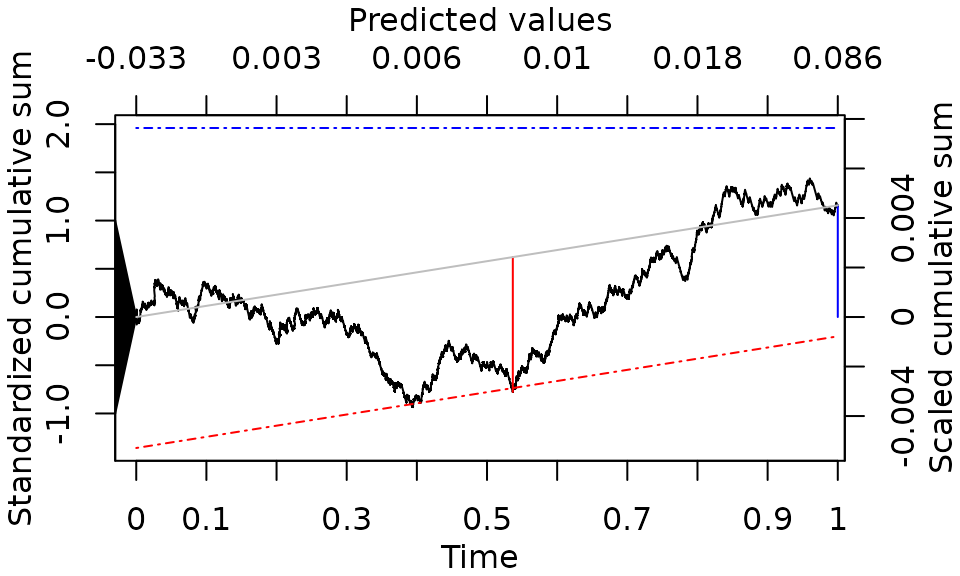
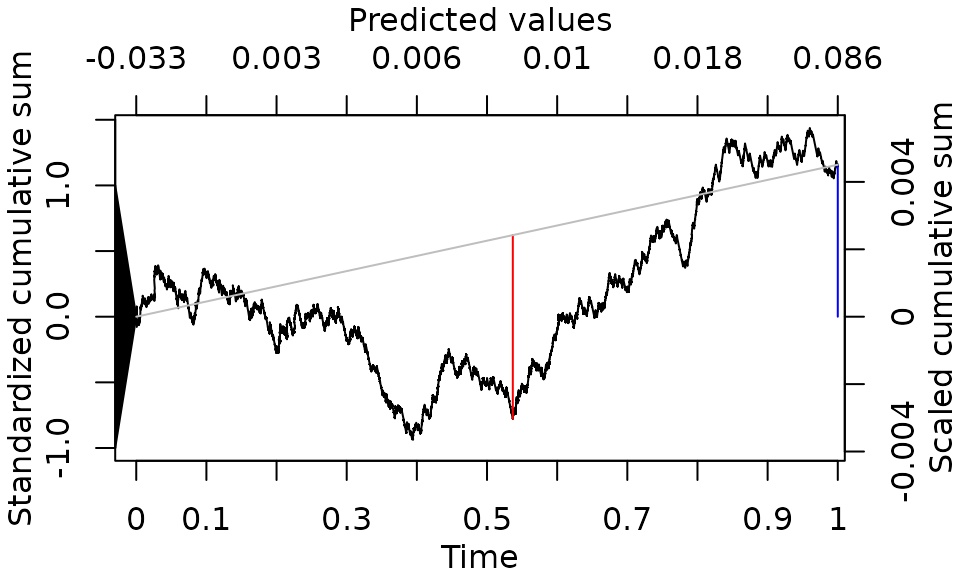
Deploying to gh-pages from @ resplab/cumulcalib@2c1577819662529b9df219714f73796c98511719 🚀

diff --git a/reference/cumulcalib-package.html b/reference/cumulcalib-package.html
@@ -1,6 +1,7 @@
 <!DOCTYPE html>
-<!-- Generated by pkgdown: do not edit by hand --><html lang="en-US"><head><meta http-equiv="Content-Type" content="text/html; charset=UTF-8"><meta charset="utf-8"><meta http-equiv="X-UA-Compatible" content="IE=edge"><meta name="viewport" content="width=device-width, initial-scale=1.0"><title>cumulcalib: Cumulative Calibration Assessment for Prediction Models — cumulcalib-package • cumulcalib</title><!-- jquery --><script src="https://cdnjs.cloudflare.com/ajax/libs/jquery/3.7.1/jquery.min.js" integrity="sha512-v2CJ7UaYy4JwqLDIrZUI/4hqeoQieOmAZNXBeQyjo21dadnwR+8ZaIJVT8EE2iyI61OV8e6M8PP2/4hpQINQ/g==" crossorigin="anonymous" referrerpolicy="no-referrer"></script><!-- Bootstrap --><link rel="stylesheet" href="https://cdnjs.cloudflare.com/ajax/libs/twitter-bootstrap/3.4.1/css/bootstrap.min.css" integrity="sha256-bZLfwXAP04zRMK2BjiO8iu9pf4FbLqX6zitd+tIvLhE=" crossorigin="anonymous"><script src="https://cdnjs.cloudflare.com/ajax/libs/twitter-bootstrap/3.4.1/js/bootstrap.min.js" integrity="sha256-nuL8/2cJ5NDSSwnKD8VqreErSWHtnEP9E7AySL+1ev4=" crossorigin="anonymous"></script><!-- bootstrap-toc --><link rel="stylesheet" href="../bootstrap-toc.css"><script src="../bootstrap-toc.js"></script><!-- Font Awesome icons --><link rel="stylesheet" href="https://cdnjs.cloudflare.com/ajax/libs/font-awesome/5.12.1/css/all.min.css" integrity="sha256-mmgLkCYLUQbXn0B1SRqzHar6dCnv9oZFPEC1g1cwlkk=" crossorigin="anonymous"><link rel="stylesheet" href="https://cdnjs.cloudflare.com/ajax/libs/font-awesome/5.12.1/css/v4-shims.min.css" integrity="sha256-wZjR52fzng1pJHwx4aV2AO3yyTOXrcDW7jBpJtTwVxw=" crossorigin="anonymous"><!-- clipboard.js --><script src="https://cdnjs.cloudflare.com/ajax/libs/clipboard.js/2.0.6/clipboard.min.js" integrity="sha256-inc5kl9MA1hkeYUt+EC3BhlIgyp/2jDIyBLS6k3UxPI=" crossorigin="anonymous"></script><!-- headroom.js --><script src="https://cdnjs.cloudflare.com/ajax/libs/headroom/0.11.0/headroom.min.js" integrity="sha256-AsUX4SJE1+yuDu5+mAVzJbuYNPHj/WroHuZ8Ir/CkE0=" crossorigin="anonymous"></script><script src="https://cdnjs.cloudflare.com/ajax/libs/headroom/0.11.0/jQuery.headroom.min.js" integrity="sha256-ZX/yNShbjqsohH1k95liqY9Gd8uOiE1S4vZc+9KQ1K4=" crossorigin="anonymous"></script><!-- pkgdown --><link href="../pkgdown.css" rel="stylesheet"><script src="../pkgdown.js"></script><meta property="og:title" content="cumulcalib: Cumulative Calibration Assessment for Prediction Models — cumulcalib-package"><meta property="og:description" content="Tools for visualization of, and inference on, the calibration of prediction models on the cumulative domain. This provides a method for evaluating calibration of risk prediction models without having to group the data or use tuning parameters (e.g., loess bandwidth). This package implements the methodology described in Sadatsafavi and Patkau (2024) doi:10.1002/sim.10138
-. The core of the package is cumulcalib(), which takes in vectors of binary responses and predicted risks. The plot() and summary() methods are implemented for the results returned by cumulcalib()."><!-- mathjax --><script src="https://cdnjs.cloudflare.com/ajax/libs/mathjax/2.7.5/MathJax.js" integrity="sha256-nvJJv9wWKEm88qvoQl9ekL2J+k/RWIsaSScxxlsrv8k=" crossorigin="anonymous"></script><script src="https://cdnjs.cloudflare.com/ajax/libs/mathjax/2.7.5/config/TeX-AMS-MML_HTMLorMML.js" integrity="sha256-84DKXVJXs0/F8OTMzX4UR909+jtl4G7SPypPavF+GfA=" crossorigin="anonymous"></script><!--[if lt IE 9]>
+<!-- Generated by pkgdown: do not edit by hand --><html lang="en-US"><head><meta http-equiv="Content-Type" content="text/html; charset=UTF-8"><meta charset="utf-8"><meta http-equiv="X-UA-Compatible" content="IE=edge"><meta name="viewport" content="width=device-width, initial-scale=1.0"><title>cumulcalib: Cumulative Calibration Assessment for Prediction Models — cumulcalib-package • cumulcalib</title><!-- jquery --><script src="https://cdnjs.cloudflare.com/ajax/libs/jquery/3.7.1/jquery.min.js" integrity="sha512-v2CJ7UaYy4JwqLDIrZUI/4hqeoQieOmAZNXBeQyjo21dadnwR+8ZaIJVT8EE2iyI61OV8e6M8PP2/4hpQINQ/g==" crossorigin="anonymous" referrerpolicy="no-referrer"></script><!-- Bootstrap --><link rel="stylesheet" href="https://cdnjs.cloudflare.com/ajax/libs/twitter-bootstrap/3.4.1/css/bootstrap.min.css" integrity="sha256-bZLfwXAP04zRMK2BjiO8iu9pf4FbLqX6zitd+tIvLhE=" crossorigin="anonymous"><script src="https://cdnjs.cloudflare.com/ajax/libs/twitter-bootstrap/3.4.1/js/bootstrap.min.js" integrity="sha256-nuL8/2cJ5NDSSwnKD8VqreErSWHtnEP9E7AySL+1ev4=" crossorigin="anonymous"></script><!-- bootstrap-toc --><link rel="stylesheet" href="../bootstrap-toc.css"><script src="../bootstrap-toc.js"></script><!-- Font Awesome icons --><link rel="stylesheet" href="https://cdnjs.cloudflare.com/ajax/libs/font-awesome/5.12.1/css/all.min.css" integrity="sha256-mmgLkCYLUQbXn0B1SRqzHar6dCnv9oZFPEC1g1cwlkk=" crossorigin="anonymous"><link rel="stylesheet" href="https://cdnjs.cloudflare.com/ajax/libs/font-awesome/5.12.1/css/v4-shims.min.css" integrity="sha256-wZjR52fzng1pJHwx4aV2AO3yyTOXrcDW7jBpJtTwVxw=" crossorigin="anonymous"><!-- clipboard.js --><script src="https://cdnjs.cloudflare.com/ajax/libs/clipboard.js/2.0.6/clipboard.min.js" integrity="sha256-inc5kl9MA1hkeYUt+EC3BhlIgyp/2jDIyBLS6k3UxPI=" crossorigin="anonymous"></script><!-- headroom.js --><script src="https://cdnjs.cloudflare.com/ajax/libs/headroom/0.11.0/headroom.min.js" integrity="sha256-AsUX4SJE1+yuDu5+mAVzJbuYNPHj/WroHuZ8Ir/CkE0=" crossorigin="anonymous"></script><script src="https://cdnjs.cloudflare.com/ajax/libs/headroom/0.11.0/jQuery.headroom.min.js" integrity="sha256-ZX/yNShbjqsohH1k95liqY9Gd8uOiE1S4vZc+9KQ1K4=" crossorigin="anonymous"></script><!-- pkgdown --><link href="../pkgdown.css" rel="stylesheet"><script src="../pkgdown.js"></script><meta property="og:title" content="cumulcalib: Cumulative Calibration Assessment for Prediction Models — cumulcalib-package"><meta property="og:description" content="Tools for visualization of, and inference on, the calibration of prediction models on the cumulative domain. This provides a method for evaluating calibration of risk prediction models without having to group the data or use tuning parameters (e.g., loess bandwidth). This package implements the methodology described in Sadatsafavi and Petkau (2024) doi:10.1002/sim.10138
+. The core of the package is cumulcalib(), which takes in vectors of binary responses and predicted risks. The package also implements non-parametric assessment of the calibration of individualized treatment effect (ITE) models using data from a randomized trial, via cumulcalibITE(), as described in Sadatsafavi et al. (2025) doi:10.48550/arXiv.2512.08140
+. The plot() and summary() methods are implemented for the results returned by cumulcalib() and cumulcalibITE()."><!-- mathjax --><script src="https://cdnjs.cloudflare.com/ajax/libs/mathjax/2.7.5/MathJax.js" integrity="sha256-nvJJv9wWKEm88qvoQl9ekL2J+k/RWIsaSScxxlsrv8k=" crossorigin="anonymous"></script><script src="https://cdnjs.cloudflare.com/ajax/libs/mathjax/2.7.5/config/TeX-AMS-MML_HTMLorMML.js" integrity="sha256-84DKXVJXs0/F8OTMzX4UR909+jtl4G7SPypPavF+GfA=" crossorigin="anonymous"></script><!--[if lt IE 9]>
 <script src="https://oss.maxcdn.com/html5shiv/3.7.3/html5shiv.min.js"></script>
 <script src="https://oss.maxcdn.com/respond/1.4.2/respond.min.js"></script>
 <![endif]--></head><body data-spy="scroll" data-target="#toc">
@@ -18,7 +19,7 @@
       </button>
       <span class="navbar-brand">
         <a class="navbar-link" href="../index.html">cumulcalib</a>
-        <span class="version label label-default" data-toggle="tooltip" data-placement="bottom" title="">0.0.1.9002</span>
+        <span class="version label label-default" data-toggle="tooltip" data-placement="bottom" title="">0.1.0</span>
       </span>
     </div>
 
@@ -63,8 +64,9 @@
     </div>
 
     <div class="ref-description">
-    <p>Tools for visualization of, and inference on, the calibration of prediction models on the cumulative domain. This provides a method for evaluating calibration of risk prediction models without having to group the data or use tuning parameters (e.g., loess bandwidth). This package implements the methodology described in Sadatsafavi and Patkau (2024) <a href="https://doi.org/10.1002/sim.10138" class="external-link">doi:10.1002/sim.10138</a>
-. The core of the package is cumulcalib(), which takes in vectors of binary responses and predicted risks. The plot() and summary() methods are implemented for the results returned by cumulcalib().</p>
+    <p>Tools for visualization of, and inference on, the calibration of prediction models on the cumulative domain. This provides a method for evaluating calibration of risk prediction models without having to group the data or use tuning parameters (e.g., loess bandwidth). This package implements the methodology described in Sadatsafavi and Petkau (2024) <a href="https://doi.org/10.1002/sim.10138" class="external-link">doi:10.1002/sim.10138</a>
+. The core of the package is cumulcalib(), which takes in vectors of binary responses and predicted risks. The package also implements non-parametric assessment of the calibration of individualized treatment effect (ITE) models using data from a randomized trial, via cumulcalibITE(), as described in Sadatsafavi et al. (2025) <a href="https://doi.org/10.48550/arXiv.2512.08140" class="external-link">doi:10.48550/arXiv.2512.08140</a>
+. The plot() and summary() methods are implemented for the results returned by cumulcalib() and cumulcalibITE().</p>
     </div>
 
 

diff --git a/articles/tutorial.html b/articles/tutorial.html
@@ -32,7 +32,7 @@
       </button>
       <span class="navbar-brand">
         <a class="navbar-link" href="../index.html">cumulcalib</a>
-        <span class="version label label-default" data-toggle="tooltip" data-placement="bottom" title="">0.0.1.9002</span>
+        <span class="version label label-default" data-toggle="tooltip" data-placement="bottom" title="">0.1.0</span>
       </span>
     </div>
 
@@ -231,14 +231,14 @@ results:</p>
 <div class="sourceCode" id="cb7"><pre class="downlit sourceCode r">
 <code class="sourceCode R"><span><span class="fu"><a href="https://rdrr.io/r/base/summary.html" class="external-link">summary</a></span><span class="op">(</span><span class="va">res</span><span class="op">)</span></span>
 <span><span class="co">#&gt; Moderate calibration assessment of predicted risks</span></span>
-<span><span class="co">#&gt; C_n (mean calibration error): -0.00156276638623392</span></span>
-<span><span class="co">#&gt; C* (maximum cumulative calibration error): 0.00200906446334086  (observed risk &lt; predicted)</span></span>
-<span><span class="co">#&gt;   Location of maximum cumulative error: time = 0.287796643081863, predicted risk = 0.0603447711748229</span></span>
+<span><span class="co">#&gt; C_n (mean calibration error): -0.0015627663862339</span></span>
+<span><span class="co">#&gt; C* (maximum cumulative calibration error): 0.00200906446334084  (observed risk &lt; predicted)</span></span>
+<span><span class="co">#&gt;   Location of maximum cumulative error: time = 0.287796643081862, predicted risk = 0.0603447711748229</span></span>
 <span><span class="co">#&gt; Method: Two-part Brownian bridge (BB)</span></span>
-<span><span class="co">#&gt; S_n (Z score for mean calibration error): -1.00908104947663</span></span>
-<span><span class="co">#&gt; B* (test statistic for maximum absolute bridged calibration error): 1.02844827843834</span></span>
-<span><span class="co">#&gt; Component-wise p-values: mean calibration=0.312935765573658 | Distance (bridged)=0.240744428186203</span></span>
-<span><span class="co">#&gt; Combined p-value (Fisher's method): 0.270143602791048</span></span></code></pre></div>
+<span><span class="co">#&gt; S_n (Z score for mean calibration error): -1.00908104947661</span></span>
+<span><span class="co">#&gt; B* (test statistic for maximum absolute bridged calibration error): 1.02844827843833</span></span>
+<span><span class="co">#&gt; Component-wise p-values: mean calibration=0.312935765573665 | Distance (bridged)=0.240744428186207</span></span>
+<span><span class="co">#&gt; Combined p-value (Fisher's method): 0.270143602791056</span></span></code></pre></div>
 <p>The following elements are returned:</p>
 <ul>
 <li><p><math display="inline" xmlns="http://www.w3.org/1998/Math/MathML"><semantics><msub><mi>C</mi><mi>n</mi></msub><annotation encoding="application/x-tex">C_n</annotation></semantics></math>:
@@ -314,11 +314,12 @@ observations). This means the terminal value of the random walk can be
 marked on the second Y-axis axis to identify mean calibration error.</p>
 <p>The blue and red vertical lines, respectively, show the terminal
 value of the random walk and its maximum bridged deviation (given the
-default method, Brownian bridge, is used). The dotted lines of the same
-color mark the critical value of the test (by default at 5% significance
-level, see the documentation for the cumulcalib() function on how to
-disable inference lines or change significance level).</p>
-<p>Here it is obvious that neither the terminal value (mean calibration
+default method, Brownian bridge, is used). By default their significance
+thresholds (at 5%) are not drawn; pass
+<code>stats_config = list(lines = "vh")</code> to <code><a href="https://rdrr.io/r/graphics/plot.default.html" class="external-link">plot()</a></code> to
+add them as dashed lines of the same color (see the documentation for
+<code><a href="../reference/plot.cumulcalib.html">plot.cumulcalib()</a></code> for further options).</p>
+<p>As reported above, neither the terminal value (mean calibration
 error) nor the maximum deviation reach statistical significance.</p>
 </div>
 </div>
@@ -402,15 +403,15 @@ exercise</p>
 <code class="sourceCode R"><span>  <span class="va">res2</span> <span class="op">&lt;-</span> <span class="fu"><a href="../reference/cumulcalib.html">cumulcalib</a></span><span class="op">(</span><span class="va">val_data</span><span class="op">$</span><span class="va">y</span>, <span class="va">val_data</span><span class="op">$</span><span class="va">pi2</span><span class="op">)</span></span>
 <span>  <span class="fu"><a href="https://rdrr.io/r/base/summary.html" class="external-link">summary</a></span><span class="op">(</span><span class="va">res2</span><span class="op">)</span></span>
 <span><span class="co">#&gt; Moderate calibration assessment of predicted risks</span></span>
-<span><span class="co">#&gt; C_n (mean calibration error): 0.000155141189373079</span></span>
-<span><span class="co">#&gt; C* (maximum cumulative calibration error): 0.00834106759839255  (observed risk &gt; predicted)</span></span>
+<span><span class="co">#&gt; C_n (mean calibration error): 0.000155141189373162</span></span>
+<span><span class="co">#&gt; C* (maximum cumulative calibration error): 0.00834106759839258  (observed risk &gt; predicted)</span></span>
 <span><span class="co">#&gt;   Location of maximum cumulative error: time = 0.420294629063075, predicted risk = 0.106004714711078</span></span>
 <span><span class="co">#&gt;   Shape: the cumulative error reverses around predicted risk = 0.106 (observed risk exceeds predicted below this point; observed risk falls below predicted above it)</span></span>
 <span><span class="co">#&gt; Method: Two-part Brownian bridge (BB)</span></span>
-<span><span class="co">#&gt; S_n (Z score for mean calibration error): 0.106201501405192</span></span>
+<span><span class="co">#&gt; S_n (Z score for mean calibration error): 0.106201501405249</span></span>
 <span><span class="co">#&gt; B* (test statistic for maximum absolute bridged calibration error): 5.66522040991455</span></span>
-<span><span class="co">#&gt; Component-wise p-values: mean calibration=0.915422479736199 | Distance (bridged)=2.22044604925031e-16</span></span>
-<span><span class="co">#&gt; Combined p-value (Fisher's method): 7.54951656745106e-15</span></span>
+<span><span class="co">#&gt; Component-wise p-values: mean calibration=0.915422479736154 | Distance (bridged)=0</span></span>
+<span><span class="co">#&gt; Combined p-value (Fisher's method): 0</span></span>
 <span>  <span class="fu"><a href="https://rdrr.io/r/graphics/plot.default.html" class="external-link">plot</a></span><span class="op">(</span><span class="va">res2</span><span class="op">)</span></span></code></pre></div>
 <p><img src="tutorial_files/figure-html/unnamed-chunk-15-1.png" class="r-plt" alt="" width="480"></p>
 <p>Here, despite the fact that average predicted risks are close to the
@@ -421,11 +422,10 @@ prediction error), followed by overestimating the risk later (the
 declining curve). This inverse U shape is a typical signature of an
 over-fitted model.</p>
 <p>If we repeat the similar steps for inference, we will obtain the
-following p-values: 0.9154225 for mean miscalibration, 2.220446^{-16}
-for the bridge component, and 7.5495166^{-15} for the unified test.
-Unlike models that systematically under-predict or over-predict the
-risk, here it is the bridge component of the test that catches the
-miscalibration.</p>
+following p-values: 0.9154225 for mean miscalibration, 0 for the bridge
+component, and 0 for the unified test. Unlike models that systematically
+under-predict or over-predict the risk, here it is the bridge component
+of the test that catches the miscalibration.</p>
 </div>
 </div>
   </div>

diff --git a/news/index.html b/news/index.html
@@ -17,7 +17,7 @@
       </button>
       <span class="navbar-brand">
         <a class="navbar-link" href="../index.html">cumulcalib</a>
-        <span class="version label label-default" data-toggle="tooltip" data-placement="bottom" title="">0.0.1.9002</span>
+        <span class="version label label-default" data-toggle="tooltip" data-placement="bottom" title="">0.1.0</span>
       </span>
     </div>
 
@@ -61,14 +61,14 @@
     </div>
 
     <div class="section level2">
-<h2 class="page-header" data-toc-text="0.0.1.9002" id="cumulcalib-0019002-development">cumulcalib 0.0.1.9002 (development)<a class="anchor" aria-label="anchor" href="#cumulcalib-0019002-development"></a></h2>
-<ul><li>
-<code><a href="https://rdrr.io/r/base/summary.html" class="external-link">summary()</a></code> now describes the shape of miscalibration around the maximum cumulative calibration error (C<em>): whether the cumulative error reverses at an interior peak (opposite directions on either side of that location) or is one-directional (a monotone accumulation), with the direction(s) worded in terms of observed vs predicted. Reported only when the standardized maximum deviation S</em> is at least <code>shape_threshold</code> (default 1.5), so it stays silent for unremarkable processes. Added the <code>crossover</code> element to the summary object and the <code>shape_threshold</code> argument to <code><a href="https://rdrr.io/r/base/summary.html" class="external-link">summary()</a></code>.</li>
-</ul></div>
-    <div class="section level2">
-<h2 class="page-header" data-toc-text="0.0.1.9001" id="cumulcalib-0019001-development">cumulcalib 0.0.1.9001 (development)<a class="anchor" aria-label="anchor" href="#cumulcalib-0019001-development"></a></h2>
-<ul><li>
-<code><a href="https://rdrr.io/r/base/print.html" class="external-link">print()</a></code> and <code><a href="https://rdrr.io/r/base/summary.html" class="external-link">summary()</a></code> now report the direction of the maximum cumulative calibration error C* (as a worded tag, e.g. “observed benefit &lt; predicted”) together with the predicted value at its location. Direction is reported only for C<em>, the descriptive metric; the test statistics (S_n, S</em>, B*) are referred to null distributions of absolute deviations and remain unsigned. The direction is derived on the fly and is consistent with <code><a href="https://rdrr.io/r/graphics/plot.default.html" class="external-link">plot()</a></code>.</li>
+<h2 class="page-header" data-toc-text="0.1.0" id="cumulcalib-010">cumulcalib 0.1.0<a class="anchor" aria-label="anchor" href="#cumulcalib-010"></a></h2>
+<ul><li><p>Added <code><a href="../reference/cumulcalibITE.html">cumulcalibITE()</a></code>, extending the cumulative calibration methodology to the assessment of moderate calibration of individualized treatment effect (ITE) models using data from a randomized trial (Sadatsafavi et al. 2025, <a href="doi:10.48550/arXiv.2512.08140" class="uri">doi:10.48550/arXiv.2512.08140</a>). A companion vignette demonstrates its use.</p></li>
+<li><p>Added <code><a href="https://rdrr.io/r/base/print.html" class="external-link">print()</a></code> methods for objects returned by <code><a href="../reference/cumulcalib.html">cumulcalib()</a></code> and <code><a href="../reference/cumulcalibITE.html">cumulcalibITE()</a></code>, and extended <code><a href="https://rdrr.io/r/base/summary.html" class="external-link">summary()</a></code> to also support <code><a href="../reference/cumulcalibITE.html">cumulcalibITE()</a></code> output.</p></li>
+<li><p><code><a href="https://rdrr.io/r/base/print.html" class="external-link">print()</a></code> and <code><a href="https://rdrr.io/r/base/summary.html" class="external-link">summary()</a></code> now report the direction of the maximum cumulative calibration error C* (as a worded tag, e.g. “observed benefit &lt; predicted”) together with the predicted value at its location. Direction is reported only for C<em>, the descriptive metric; the test statistics (S_n, S</em>, B*) are referred to null distributions of absolute deviations and remain unsigned. The direction is derived on the fly and is consistent with <code><a href="https://rdrr.io/r/graphics/plot.default.html" class="external-link">plot()</a></code>.</p></li>
+<li><p><code><a href="https://rdrr.io/r/base/summary.html" class="external-link">summary()</a></code> now describes the shape of miscalibration around the maximum cumulative calibration error (C<em>): whether the cumulative error reverses at an interior peak (opposite directions on either side of that location) or is one-directional (a monotone accumulation), with the direction(s) worded in terms of observed vs predicted. Reported only when the standardized maximum deviation S</em> is at least <code>shape_threshold</code> (default 1.5), so it stays silent for unremarkable processes. Added the <code>crossover</code> element to the summary object and the <code>shape_threshold</code> argument to <code><a href="https://rdrr.io/r/base/summary.html" class="external-link">summary()</a></code>.</p></li>
+<li><p><strong>Behavior change:</strong> <code><a href="https://rdrr.io/r/graphics/plot.default.html" class="external-link">plot()</a></code> no longer draws significance-threshold lines by default; only the statistic line(s) are drawn. Pass <code>stats_config = list(lines = "vh")</code> to restore the previous default of showing both, or <code>list(lines = "h")</code> for thresholds only.</p></li>
+<li><p>Fixed a bug where the bridge test’s significance line was not drawn parallel to the line connecting the start and end of the random walk.</p></li>
+<li><p>Fixed an error in <code><a href="https://rdrr.io/r/base/summary.html" class="external-link">summary()</a></code> for the <code>BM2p</code> method caused by a stray <code><a href="https://rdrr.io/r/base/writeLines.html" class="external-link">writeLines()</a></code> call.</p></li>
 </ul></div>
     <div class="section level2">
 <h2 class="page-header" data-toc-text="0.0.1" id="cumulcalib-001">cumulcalib 0.0.1<small>2024-06-13</small><a class="anchor" aria-label="anchor" href="#cumulcalib-001"></a></h2>

diff --git a/articles/tutorialITE.html b/articles/tutorialITE.html
@@ -32,7 +32,7 @@
       </button>
       <span class="navbar-brand">
         <a class="navbar-link" href="../index.html">cumulcalib</a>
-        <span class="version label label-default" data-toggle="tooltip" data-placement="bottom" title="">0.0.1.9002</span>
+        <span class="version label label-default" data-toggle="tooltip" data-placement="bottom" title="">0.1.0</span>
       </span>
     </div>
 
@@ -212,14 +212,14 @@ generally has higher power.</p>
 <span>  <span class="fu"><a href="https://rdrr.io/r/base/summary.html" class="external-link">summary</a></span><span class="op">(</span><span class="va">res</span><span class="op">)</span></span>
 <span><span class="co">#&gt; Moderate calibration assessment of individualized treatment effects</span></span>
 <span><span class="co">#&gt; Approach: marginal</span></span>
-<span><span class="co">#&gt; C_n (mean calibration error): 0.00450999603471587</span></span>
-<span><span class="co">#&gt; C* (maximum cumulative calibration error): 0.00559910543541152  (observed benefit &gt; predicted)</span></span>
-<span><span class="co">#&gt;   Location of maximum cumulative error: time = 0.96015470901985, predicted ITE = 0.0445832755378061</span></span>
+<span><span class="co">#&gt; C_n (mean calibration error): 0.00450999603471589</span></span>
+<span><span class="co">#&gt; C* (maximum cumulative calibration error): 0.00559910543541154  (observed benefit &gt; predicted)</span></span>
+<span><span class="co">#&gt;   Location of maximum cumulative error: time = 0.96015470901985, predicted ITE = 0.044583275537806</span></span>
 <span><span class="co">#&gt; Method: Two-part Brownian bridge (BB)</span></span>
-<span><span class="co">#&gt; S_n (Z score for mean calibration error): 1.1577422710549</span></span>
+<span><span class="co">#&gt; S_n (Z score for mean calibration error): 1.15774227105491</span></span>
 <span><span class="co">#&gt; B* (test statistic for maximum absolute bridged calibration error): 1.39879642646784</span></span>
-<span><span class="co">#&gt; Component-wise p-values: mean calibration=0.246969228103395 | Distance (bridged)=0.039950117117651</span></span>
-<span><span class="co">#&gt; Combined p-value (Fisher's method): 0.0554357836981592</span></span></code></pre></div>
+<span><span class="co">#&gt; Component-wise p-values: mean calibration=0.246969228103392 | Distance (bridged)=0.0399501171176506</span></span>
+<span><span class="co">#&gt; Combined p-value (Fisher's method): 0.0554357836981584</span></span></code></pre></div>
 <p>The bridge test reports two components and a unified p-value:</p>
 <ul>
 <li>the <strong>mean-calibration</strong> component (the standardized
@@ -249,13 +249,16 @@ method used for risks:</p>
 standardized
 <math display="inline" xmlns="http://www.w3.org/1998/Math/MathML"><semantics><mrow><mo stretchy="false" form="prefix">{</mo><mi>S</mi><mo stretchy="false" form="postfix">}</mo></mrow><annotation encoding="application/x-tex">\{S\}</annotation></semantics></math>
 process; the top X-axis shows the corresponding predicted ITEs, and the
-right Y-axis shows the scaled (un-standardized) cumulative errors, whose
-terminal value is <code>C_n</code>. The blue markings relate to the
-mean-calibration component (the terminal value and its significance
-threshold) and the red markings to the bridge component. One quirk
-specific to the marginal approach is that, because the marginal variance
-is not guaranteed to be monotone, the process can occasionally show
-small negative time increments.</p>
+right Y-axis shows the scaled (unstandardized) cumulative errors, whose
+terminal value is <code>C_n</code>. The blue vertical line marks the
+mean-calibration component (the terminal value of the random walk) and
+the red vertical line the bridge component. By default their
+significance thresholds are not drawn; pass
+<code>stats_config = list(lines = "vh")</code> to <code><a href="https://rdrr.io/r/graphics/plot.default.html" class="external-link">plot()</a></code> to
+add them as dashed lines of the same color. One quirk specific to the
+marginal approach is that, because the marginal variance is not
+guaranteed to be monotone, the process can occasionally show small
+negative time increments.</p>
 </div>
 <div class="section level2">
 <h2 id="the-conditional-approach">The conditional approach<a class="anchor" aria-label="anchor" href="#the-conditional-approach"></a>

diff --git a/index.html b/index.html
@@ -12,7 +12,7 @@
 <link rel="stylesheet" href="https://cdnjs.cloudflare.com/ajax/libs/font-awesome/5.12.1/css/v4-shims.min.css" integrity="sha256-wZjR52fzng1pJHwx4aV2AO3yyTOXrcDW7jBpJtTwVxw=" crossorigin="anonymous">
 <!-- clipboard.js --><script src="https://cdnjs.cloudflare.com/ajax/libs/clipboard.js/2.0.6/clipboard.min.js" integrity="sha256-inc5kl9MA1hkeYUt+EC3BhlIgyp/2jDIyBLS6k3UxPI=" crossorigin="anonymous"></script><!-- headroom.js --><script src="https://cdnjs.cloudflare.com/ajax/libs/headroom/0.11.0/headroom.min.js" integrity="sha256-AsUX4SJE1+yuDu5+mAVzJbuYNPHj/WroHuZ8Ir/CkE0=" crossorigin="anonymous"></script><script src="https://cdnjs.cloudflare.com/ajax/libs/headroom/0.11.0/jQuery.headroom.min.js" integrity="sha256-ZX/yNShbjqsohH1k95liqY9Gd8uOiE1S4vZc+9KQ1K4=" crossorigin="anonymous"></script><!-- pkgdown --><link href="pkgdown.css" rel="stylesheet">
 <script src="pkgdown.js"></script><meta property="og:title" content="Cumulative Calibration Assessment for Prediction Models">
-<meta property="og:description" content="Tools for visualization of, and inference on, the calibration of prediction models on the cumulative domain. This provides a method for evaluating calibration of risk prediction models without having to group the data or use tuning parameters (e.g., loess bandwidth). This package implements the methodology described in Sadatsafavi and Patkau (2024) &lt;doi:10.1002/sim.10138&gt;. The core of the package is cumulcalib(), which takes in vectors of binary responses and predicted risks. The plot() and summary() methods are implemented for the results returned by cumulcalib().">
+<meta property="og:description" content="Tools for visualization of, and inference on, the calibration of prediction models on the cumulative domain. This provides a method for evaluating calibration of risk prediction models without having to group the data or use tuning parameters (e.g., loess bandwidth). This package implements the methodology described in Sadatsafavi and Petkau (2024) &lt;doi:10.1002/sim.10138&gt;. The core of the package is cumulcalib(), which takes in vectors of binary responses and predicted risks. The package also implements non-parametric assessment of the calibration of individualized treatment effect (ITE) models using data from a randomized trial, via cumulcalibITE(), as described in Sadatsafavi et al. (2025) &lt;doi:10.48550/arXiv.2512.08140&gt;. The plot() and summary() methods are implemented for the results returned by cumulcalib() and cumulcalibITE().">
 <!-- mathjax --><script src="https://cdnjs.cloudflare.com/ajax/libs/mathjax/2.7.5/MathJax.js" integrity="sha256-nvJJv9wWKEm88qvoQl9ekL2J+k/RWIsaSScxxlsrv8k=" crossorigin="anonymous"></script><script src="https://cdnjs.cloudflare.com/ajax/libs/mathjax/2.7.5/config/TeX-AMS-MML_HTMLorMML.js" integrity="sha256-84DKXVJXs0/F8OTMzX4UR909+jtl4G7SPypPavF+GfA=" crossorigin="anonymous"></script><!--[if lt IE 9]>
 <script src="https://oss.maxcdn.com/html5shiv/3.7.3/html5shiv.min.js"></script>
 <script src="https://oss.maxcdn.com/respond/1.4.2/respond.min.js"></script>
@@ -33,7 +33,7 @@
       </button>
       <span class="navbar-brand">
         <a class="navbar-link" href="index.html">cumulcalib</a>
-        <span class="version label label-default" data-toggle="tooltip" data-placement="bottom" title="">0.0.1.9002</span>
+        <span class="version label label-default" data-toggle="tooltip" data-placement="bottom" title="">0.1.0</span>
       </span>
     </div>
 

diff --git a/reference/plot.cumulcalib.html b/reference/plot.cumulcalib.html
@@ -17,7 +17,7 @@
       </button>
       <span class="navbar-brand">
         <a class="navbar-link" href="../index.html">cumulcalib</a>
-        <span class="version label label-default" data-toggle="tooltip" data-placement="bottom" title="">0.0.1.9002</span>
+        <span class="version label label-default" data-toggle="tooltip" data-placement="bottom" title="">0.1.0</span>
       </span>
     </div>
 
@@ -92,14 +92,14 @@
 
 <dt id="arg-stats-config">stats_config<a class="anchor" aria-label="anchor" href="#arg-stats-config"></a></dt>
 <dd><p>A list specifying the visualization parameters for the
-statistical test(s). Defaults to an empty list (<code><a href="https://rdrr.io/r/base/list.html" class="external-link">list()</a></code>), which uses
-all built-in defaults (e.g., drawing both the statistic and its
-significance threshold at the 0.95 level, in blue and red).
+statistical test(s). Defaults to an empty list (<code><a href="https://rdrr.io/r/base/list.html" class="external-link">list()</a></code>), which by
+default draws only the statistic line(s) (<code>"v"</code>, in blue and red),
+not their significance threshold(s) (<code>"h"</code>, at the 0.95 level).
 If set to <code>NULL</code>, no statistical lines are drawn.
 Recognized elements are <code>sig</code> (significance level(s)),
 <code>lines</code> (which lines to draw: include <code>"v"</code> for the vertical
 statistic line and/or <code>"h"</code> for the horizontal significance
-threshold), and <code>col</code> (color(s)).</p></dd>
+threshold, e.g. <code>"vh"</code> to draw both), and <code>col</code> (color(s)).</p></dd>
 
 
 <dt id="arg-x-axis">x2axis<a class="anchor" aria-label="anchor" href="#arg-x-axis"></a></dt>

diff --git a/authors.html b/authors.html
@@ -17,7 +17,7 @@
       </button>
       <span class="navbar-brand">
         <a class="navbar-link" href="index.html">cumulcalib</a>
-        <span class="version label label-default" data-toggle="tooltip" data-placement="bottom" title="">0.0.1.9002</span>
+        <span class="version label label-default" data-toggle="tooltip" data-placement="bottom" title="">0.1.0</span>
       </span>
     </div>
 
@@ -76,13 +76,13 @@
 
     <p>Sadatsafavi M (2026).
 <em>cumulcalib: Cumulative Calibration Assessment for Prediction Models</em>.
-R package version 0.0.1.9002, <a href="https://github.com/resplab/cumulcalib" class="external-link">https://github.com/resplab/cumulcalib</a>.
+R package version 0.1.0, <a href="https://github.com/resplab/cumulcalib" class="external-link">https://github.com/resplab/cumulcalib</a>.
 </p>
     <pre>@Manual{,
   title = {cumulcalib: Cumulative Calibration Assessment for Prediction Models},
   author = {Mohsen Sadatsafavi},
   year = {2026},
-  note = {R package version 0.0.1.9002},
+  note = {R package version 0.1.0},
   url = {https://github.com/resplab/cumulcalib},
 }</pre>
 

diff --git a/reference/cumulcalibITE.html b/reference/cumulcalibITE.html
@@ -18,7 +18,7 @@ models that predict individual treatment effects (treatment benefit)."><!-- math
       </button>
       <span class="navbar-brand">
         <a class="navbar-link" href="../index.html">cumulcalib</a>
-        <span class="version label label-default" data-toggle="tooltip" data-placement="bottom" title="">0.0.1.9002</span>
+        <span class="version label label-default" data-toggle="tooltip" data-placement="bottom" title="">0.1.0</span>
       </span>
     </div>
 

diff --git a/reference/print.cumulcalib.html b/reference/print.cumulcalib.html
@@ -18,7 +18,7 @@ cumulcalib() or cumulcalibITE(). For a fuller breakdown use summary()."><!-- mat
       </button>
       <span class="navbar-brand">
         <a class="navbar-link" href="../index.html">cumulcalib</a>
-        <span class="version label label-default" data-toggle="tooltip" data-placement="bottom" title="">0.0.1.9002</span>
+        <span class="version label label-default" data-toggle="tooltip" data-placement="bottom" title="">0.1.0</span>
       </span>
     </div>
 

diff --git a/reference/summary.cumulcalib.html b/reference/summary.cumulcalib.html
@@ -19,7 +19,7 @@ displayed by print.summary.cumulcalib()."><!-- mathjax --><script src="https://c
       </button>
       <span class="navbar-brand">
         <a class="navbar-link" href="../index.html">cumulcalib</a>
-        <span class="version label label-default" data-toggle="tooltip" data-placement="bottom" title="">0.0.1.9002</span>
+        <span class="version label label-default" data-toggle="tooltip" data-placement="bottom" title="">0.1.0</span>
       </span>
     </div>
 

diff --git a/articles/index.html b/articles/index.html
@@ -17,7 +17,7 @@
       </button>
       <span class="navbar-brand">
         <a class="navbar-link" href="../index.html">cumulcalib</a>
-        <span class="version label label-default" data-toggle="tooltip" data-placement="bottom" title="">0.0.1.9002</span>
+        <span class="version label label-default" data-toggle="tooltip" data-placement="bottom" title="">0.1.0</span>
       </span>
     </div>
 

diff --git a/reference/cumulcalib.html b/reference/cumulcalib.html
@@ -17,7 +17,7 @@
       </button>
       <span class="navbar-brand">
         <a class="navbar-link" href="../index.html">cumulcalib</a>
-        <span class="version label label-default" data-toggle="tooltip" data-placement="bottom" title="">0.0.1.9002</span>
+        <span class="version label label-default" data-toggle="tooltip" data-placement="bottom" title="">0.1.0</span>
       </span>
     </div>
 
